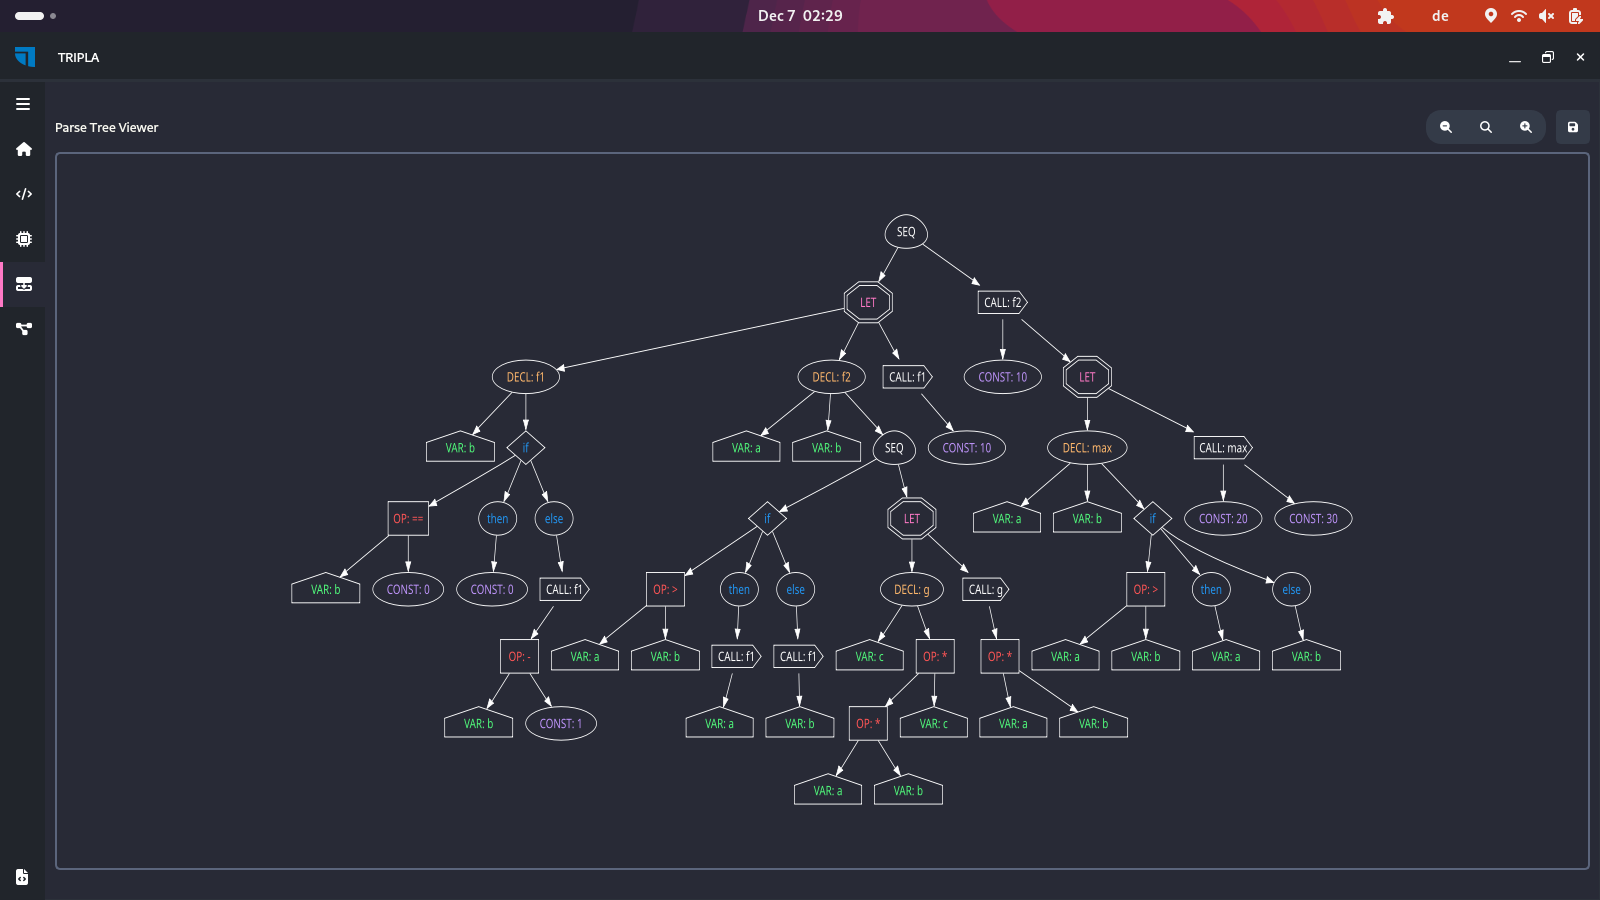
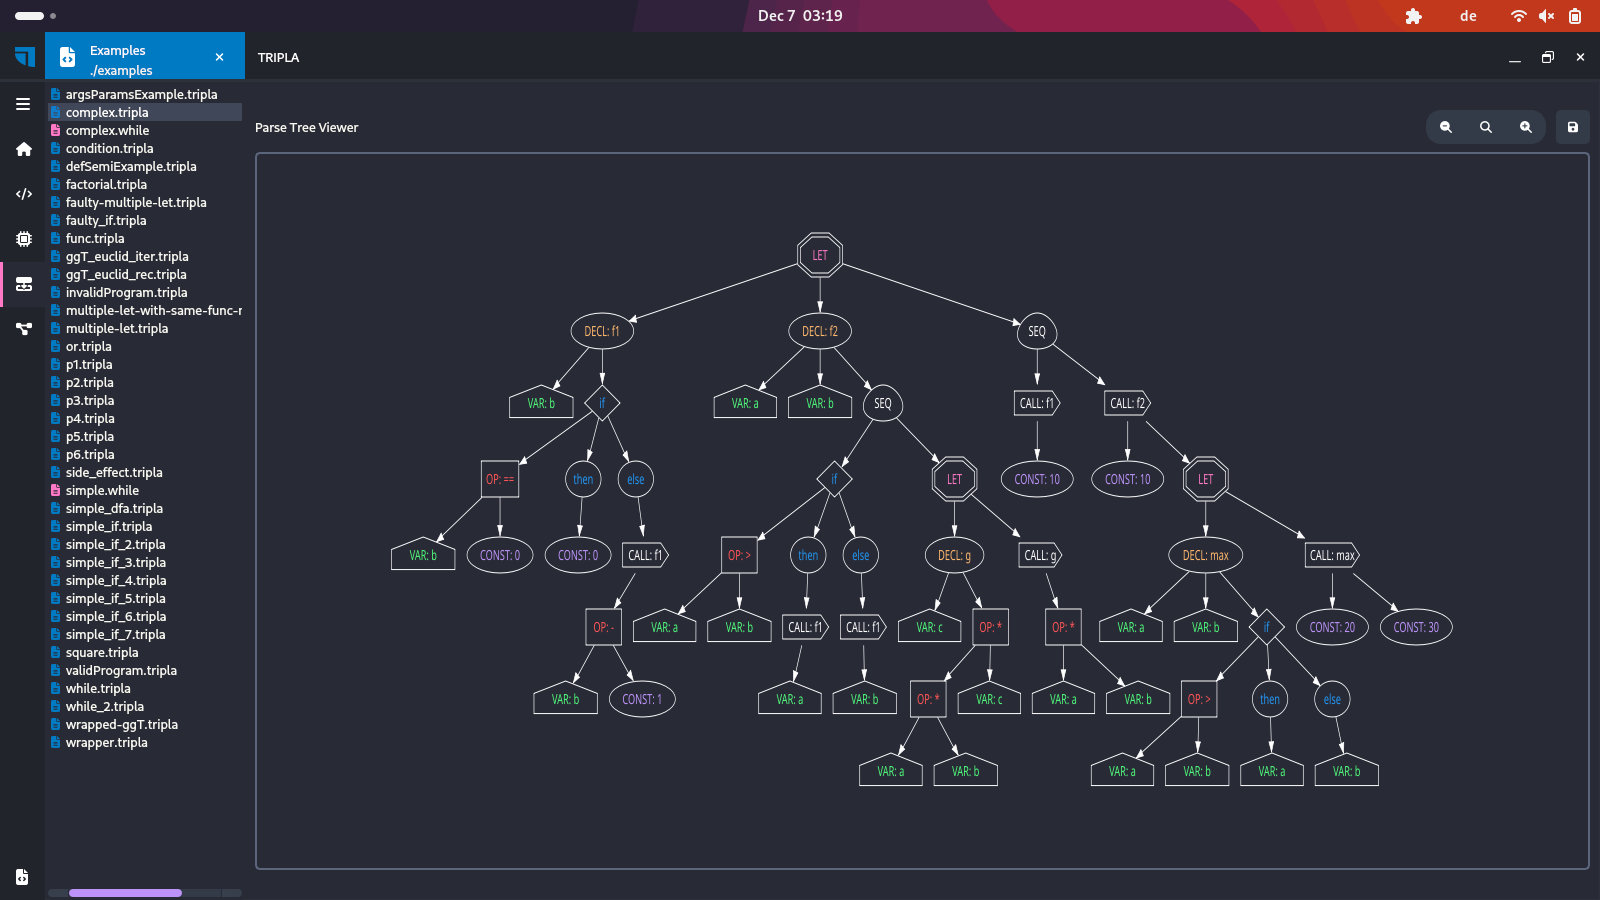
grammar

diff --git a/Modules/Tripla/parsetab.py b/Modules/Tripla/parsetab.py
@@ -6,9 +6,9 @@ _tabversion = '3.10'
 
 _lr_method = 'LALR'
 
-_lr_signature = 'nonassocRPARLETleftSEMICOLONCOMMAIDnonassocASSIGNELSEWHILEIFDOINleftORleftANDnonassocLTGTEQNEQLTEGTEleftADDSUBleftMULDIVADD AND ASSIGN COMMA COMMENT CONST DIV DO ELSE EQ FALSE GT GTE ID IF IN LBRA LET LPAR LT LTE MUL NEQ OR RBRA RPAR SEMICOLON SUB THEN TRUE WHILEE : LET D IN EE : IDE : ID LPAR A RPAR\n        E : E ADD E\n        | E SUB E\n        | E MUL E\n        | E DIV E\n        E : LPAR E RPARE : CONSTE : ID ASSIGN EE : E SEMICOLON EE : IF B THEN E ELSE EE : WHILE B DO LBRA E RBRAA : EA : A COMMA ED : ID LPAR V RPAR LBRA E RBRAD : D ID LPAR V RPAR LBRA E RBRAV : IDV : V COMMA VB : LPAR B RPARB : TRUEB : FALSE\n        B : B OR B\n        | B AND B\n        | B NEQ B\n        | B EQ B\n        \n        B : E EQ E\n        | E NEQ E\n        | E LT E\n        | E GT E\n        | E LTE E\n        | E GTE E\n        '
+_lr_signature = 'nonassocRPARINleftSEMICOLONCOMMAIDnonassocASSIGNELSEWHILEIFDOLETleftORleftANDnonassocLTGTEQNEQLTEGTEleftADDSUBleftMULDIVADD AND ASSIGN COMMA COMMENT CONST DIV DO ELSE EQ FALSE GT GTE ID IF IN LBRA LET LPAR LT LTE MUL NEQ OR RBRA RPAR SEMICOLON SUB THEN TRUE WHILEE : LET D IN EE : IDE : ID LPAR A RPAR\n        E : E ADD E\n        | E SUB E\n        | E MUL E\n        | E DIV E\n        E : LPAR E RPARE : CONSTE : ID ASSIGN EE : E SEMICOLON EE : IF B THEN E ELSE EE : WHILE B DO LBRA E RBRAA : EA : A COMMA ED : ID LPAR V RPAR LBRA E RBRAD : D ID LPAR V RPAR LBRA E RBRAV : IDV : V COMMA VB : LPAR B RPARB : TRUEB : FALSE\n        B : B OR B\n        | B AND B\n        | B NEQ B\n        | B EQ B\n        \n        B : E EQ E\n        | E NEQ E\n        | E LT E\n        | E GT E\n        | E LTE E\n        | E GTE E\n        '
     
-_lr_action_items = {'LET':([0,4,6,7,8,9,10,11,12,15,16,20,29,36,37,38,39,40,41,42,43,44,45,46,55,68,73,76,80,],[2,2,2,2,2,2,2,2,2,2,2,2,2,2,2,2,2,2,2,2,2,2,2,2,2,2,2,2,2,]),'ID':([0,2,4,6,7,8,9,10,11,12,13,15,16,20,29,31,36,37,38,39,40,41,42,43,44,45,46,51,55,68,71,73,76,80,83,84,],[3,14,3,3,3,3,3,3,3,3,30,3,3,3,3,52,3,3,3,3,3,3,3,3,3,3,3,52,3,3,52,3,3,3,-16,-17,]),'LPAR':([0,3,4,6,7,8,9,10,11,12,14,15,16,20,29,30,36,37,38,39,40,41,42,43,44,45,46,55,68,73,76,80,],[4,15,4,20,20,4,4,4,4,4,31,4,4,20,4,51,4,20,20,20,20,4,4,4,4,4,4,4,4,4,4,4,]),'CONST':([0,4,6,7,8,9,10,11,12,15,16,20,29,36,37,38,39,40,41,42,43,44,45,46,55,68,73,76,80,],[5,5,5,5,5,5,5,5,5,5,5,5,5,5,5,5,5,5,5,5,5,5,5,5,5,5,5,5,5,]),'IF':([0,4,6,7,8,9,10,11,12,15,16,20,29,36,37,38,39,40,41,42,43,44,45,46,55,68,73,76,80,],[6,6,6,6,6,6,6,6,6,6,6,6,6,6,6,6,6,6,6,6,6,6,6,6,6,6,6,6,6,]),'WHILE':([0,4,6,7,8,9,10,11,12,15,16,20,29,36,37,38,39,40,41,42,43,44,45,46,55,68,73,76,80,],[7,7,7,7,7,7,7,7,7,7,7,7,7,7,7,7,7,7,7,7,7,7,7,7,7,7,7,7,7,]),'$end':([1,3,5,24,25,26,27,28,34,35,50,54,78,79,],[0,-2,-9,-4,-5,-6,-7,-11,-10,-8,-1,-3,-12,-13,]),'ADD':([1,3,5,17,19,24,25,26,27,28,33,34,35,48,50,54,56,61,62,63,64,65,66,72,74,78,79,81,82,],[8,-2,-9,8,8,-4,-5,-6,-7,8,8,8,-8,8,8,-3,8,8,8,8,8,8,8,8,8,8,-13,8,8,]),'SUB':([1,3,5,17,19,24,25,26,27,28,33,34,35,48,50,54,56,61,62,63,64,65,66,72,74,78,79,81,82,],[9,-2,-9,9,9,-4,-5,-6,-7,9,9,9,-8,9,9,-3,9,9,9,9,9,9,9,9,9,9,-13,9,9,]),'MUL':([1,3,5,17,19,24,25,26,27,28,33,34,35,48,50,54,56,61,62,63,64,65,66,72,74,78,79,81,82,],[10,-2,-9,10,10,10,10,-6,-7,10,10,10,-8,10,10,-3,10,10,10,10,10,10,10,10,10,10,-13,10,10,]),'DIV':([1,3,5,17,19,24,25,26,27,28,33,34,35,48,50,54,56,61,62,63,64,65,66,72,74,78,79,81,82,],[11,-2,-9,11,11,11,11,-6,-7,11,11,11,-8,11,11,-3,11,11,11,11,11,11,11,11,11,11,-13,11,11,]),'SEMICOLON':([1,3,5,17,19,24,25,26,27,28,33,34,35,48,50,54,56,61,62,63,64,65,66,72,74,78,79,81,82,],[12,-2,-9,12,12,-4,-5,-6,-7,-11,12,-10,-8,12,-1,-3,12,12,12,12,12,12,12,12,12,-12,-13,12,12,]),'RPAR':([3,5,17,21,22,24,25,26,27,28,32,33,34,35,47,48,50,52,53,54,57,58,59,60,61,62,63,64,65,66,67,69,72,77,78,79,],[-2,-9,35,-21,-22,-4,-5,-6,-7,-11,54,-14,-10,-8,67,35,-1,-18,70,-3,-23,-24,-25,-26,-27,-28,-29,-30,-31,-32,-20,75,-15,-19,-12,-13,]),'EQ':([3,5,18,19,21,22,23,24,25,26,27,28,34,35,47,48,50,54,57,58,59,60,61,62,63,64,65,66,67,78,79,],[-2,-9,40,41,-21,-22,40,-4,-5,-6,-7,-11,-10,-8,40,41,-1,-3,40,40,None,None,-27,-28,-29,-30,-31,-32,-20,-12,-13,]),'NEQ':([3,5,18,19,21,22,23,24,25,26,27,28,34,35,47,48,50,54,57,58,59,60,61,62,63,64,65,66,67,78,79,],[-2,-9,39,42,-21,-22,39,-4,-5,-6,-7,-11,-10,-8,39,42,-1,-3,39,39,None,None,-27,-28,-29,-30,-31,-32,-20,-12,-13,]),'LT':([3,5,19,24,25,26,27,28,34,35,48,50,54,78,79,],[-2,-9,43,-4,-5,-6,-7,-11,-10,-8,43,-1,-3,-12,-13,]),'GT':([3,5,19,24,25,26,27,28,34,35,48,50,54,78,79,],[-2,-9,44,-4,-5,-6,-7,-11,-10,-8,44,-1,-3,-12,-13,]),'LTE':([3,5,19,24,25,26,27,28,34,35,48,50,54,78,79,],[-2,-9,45,-4,-5,-6,-7,-11,-10,-8,45,-1,-3,-12,-13,]),'GTE':([3,5,19,24,25,26,27,28,34,35,48,50,54,78,79,],[-2,-9,46,-4,-5,-6,-7,-11,-10,-8,46,-1,-3,-12,-13,]),'COMMA':([3,5,24,25,26,27,28,32,33,34,35,50,52,53,54,69,72,77,78,79,],[-2,-9,-4,-5,-6,-7,-11,55,-14,-10,-8,-1,-18,71,-3,71,-15,-19,-12,-13,]),'ELSE':([3,5,24,25,26,27,28,34,35,50,54,56,78,79,],[-2,-9,-4,-5,-6,-7,-11,-10,-8,-1,-3,73,-12,-13,]),'THEN':([3,5,18,21,22,24,25,26,27,28,34,35,50,54,57,58,59,60,61,62,63,64,65,66,67,78,79,],[-2,-9,36,-21,-22,-4,-5,-6,-7,-11,-10,-8,-1,-3,-23,-24,-25,-26,-27,-28,-29,-30,-31,-32,-20,-12,-13,]),'OR':([3,5,18,21,22,23,24,25,26,27,28,34,35,47,50,54,57,58,59,60,61,62,63,64,65,66,67,78,79,],[-2,-9,37,-21,-22,37,-4,-5,-6,-7,-11,-10,-8,37,-1,-3,-23,-24,-25,-26,-27,-28,-29,-30,-31,-32,-20,-12,-13,]),'AND':([3,5,18,21,22,23,24,25,26,27,28,34,35,47,50,54,57,58,59,60,61,62,63,64,65,66,67,78,79,],[-2,-9,38,-21,-22,38,-4,-5,-6,-7,-11,-10,-8,38,-1,-3,38,-24,-25,-26,-27,-28,-29,-30,-31,-32,-20,-12,-13,]),'DO':([3,5,21,22,23,24,25,26,27,28,34,35,50,54,57,58,59,60,61,62,63,64,65,66,67,78,79,],[-2,-9,-21,-22,49,-4,-5,-6,-7,-11,-10,-8,-1,-3,-23,-24,-25,-26,-27,-28,-29,-30,-31,-32,-20,-12,-13,]),'RBRA':([3,5,24,25,26,27,28,34,35,50,54,74,78,79,81,82,],[-2,-9,-4,-5,-6,-7,-11,-10,-8,-1,-3,79,-12,-13,83,84,]),'ASSIGN':([3,],[16,]),'TRUE':([6,7,20,37,38,39,40,],[21,21,21,21,21,21,21,]),'FALSE':([6,7,20,37,38,39,40,],[22,22,22,22,22,22,22,]),'IN':([13,83,84,],[29,-16,-17,]),'LBRA':([49,70,75,],[68,76,80,]),}
+_lr_action_items = {'LET':([0,4,6,7,8,9,10,11,12,15,16,20,29,36,37,38,39,40,41,42,43,44,45,46,55,68,73,76,80,],[2,2,2,2,2,2,2,2,2,2,2,2,2,2,2,2,2,2,2,2,2,2,2,2,2,2,2,2,2,]),'ID':([0,2,4,6,7,8,9,10,11,12,13,15,16,20,29,31,36,37,38,39,40,41,42,43,44,45,46,51,55,68,71,73,76,80,83,84,],[3,14,3,3,3,3,3,3,3,3,30,3,3,3,3,52,3,3,3,3,3,3,3,3,3,3,3,52,3,3,52,3,3,3,-16,-17,]),'LPAR':([0,3,4,6,7,8,9,10,11,12,14,15,16,20,29,30,36,37,38,39,40,41,42,43,44,45,46,55,68,73,76,80,],[4,15,4,20,20,4,4,4,4,4,31,4,4,20,4,51,4,20,20,20,20,4,4,4,4,4,4,4,4,4,4,4,]),'CONST':([0,4,6,7,8,9,10,11,12,15,16,20,29,36,37,38,39,40,41,42,43,44,45,46,55,68,73,76,80,],[5,5,5,5,5,5,5,5,5,5,5,5,5,5,5,5,5,5,5,5,5,5,5,5,5,5,5,5,5,]),'IF':([0,4,6,7,8,9,10,11,12,15,16,20,29,36,37,38,39,40,41,42,43,44,45,46,55,68,73,76,80,],[6,6,6,6,6,6,6,6,6,6,6,6,6,6,6,6,6,6,6,6,6,6,6,6,6,6,6,6,6,]),'WHILE':([0,4,6,7,8,9,10,11,12,15,16,20,29,36,37,38,39,40,41,42,43,44,45,46,55,68,73,76,80,],[7,7,7,7,7,7,7,7,7,7,7,7,7,7,7,7,7,7,7,7,7,7,7,7,7,7,7,7,7,]),'$end':([1,3,5,24,25,26,27,28,34,35,50,54,78,79,],[0,-2,-9,-4,-5,-6,-7,-11,-10,-8,-1,-3,-12,-13,]),'ADD':([1,3,5,17,19,24,25,26,27,28,33,34,35,48,50,54,56,61,62,63,64,65,66,72,74,78,79,81,82,],[8,-2,-9,8,8,-4,-5,-6,-7,8,8,8,-8,8,8,-3,8,8,8,8,8,8,8,8,8,8,-13,8,8,]),'SUB':([1,3,5,17,19,24,25,26,27,28,33,34,35,48,50,54,56,61,62,63,64,65,66,72,74,78,79,81,82,],[9,-2,-9,9,9,-4,-5,-6,-7,9,9,9,-8,9,9,-3,9,9,9,9,9,9,9,9,9,9,-13,9,9,]),'MUL':([1,3,5,17,19,24,25,26,27,28,33,34,35,48,50,54,56,61,62,63,64,65,66,72,74,78,79,81,82,],[10,-2,-9,10,10,10,10,-6,-7,10,10,10,-8,10,10,-3,10,10,10,10,10,10,10,10,10,10,-13,10,10,]),'DIV':([1,3,5,17,19,24,25,26,27,28,33,34,35,48,50,54,56,61,62,63,64,65,66,72,74,78,79,81,82,],[11,-2,-9,11,11,11,11,-6,-7,11,11,11,-8,11,11,-3,11,11,11,11,11,11,11,11,11,11,-13,11,11,]),'SEMICOLON':([1,3,5,17,19,24,25,26,27,28,33,34,35,48,50,54,56,61,62,63,64,65,66,72,74,78,79,81,82,],[12,-2,-9,12,12,-4,-5,-6,-7,-11,12,-10,-8,12,12,-3,12,12,12,12,12,12,12,12,12,-12,-13,12,12,]),'RPAR':([3,5,17,21,22,24,25,26,27,28,32,33,34,35,47,48,50,52,53,54,57,58,59,60,61,62,63,64,65,66,67,69,72,77,78,79,],[-2,-9,35,-21,-22,-4,-5,-6,-7,-11,54,-14,-10,-8,67,35,-1,-18,70,-3,-23,-24,-25,-26,-27,-28,-29,-30,-31,-32,-20,75,-15,-19,-12,-13,]),'EQ':([3,5,18,19,21,22,23,24,25,26,27,28,34,35,47,48,50,54,57,58,59,60,61,62,63,64,65,66,67,78,79,],[-2,-9,40,41,-21,-22,40,-4,-5,-6,-7,-11,-10,-8,40,41,-1,-3,40,40,None,None,-27,-28,-29,-30,-31,-32,-20,-12,-13,]),'NEQ':([3,5,18,19,21,22,23,24,25,26,27,28,34,35,47,48,50,54,57,58,59,60,61,62,63,64,65,66,67,78,79,],[-2,-9,39,42,-21,-22,39,-4,-5,-6,-7,-11,-10,-8,39,42,-1,-3,39,39,None,None,-27,-28,-29,-30,-31,-32,-20,-12,-13,]),'LT':([3,5,19,24,25,26,27,28,34,35,48,50,54,78,79,],[-2,-9,43,-4,-5,-6,-7,-11,-10,-8,43,-1,-3,-12,-13,]),'GT':([3,5,19,24,25,26,27,28,34,35,48,50,54,78,79,],[-2,-9,44,-4,-5,-6,-7,-11,-10,-8,44,-1,-3,-12,-13,]),'LTE':([3,5,19,24,25,26,27,28,34,35,48,50,54,78,79,],[-2,-9,45,-4,-5,-6,-7,-11,-10,-8,45,-1,-3,-12,-13,]),'GTE':([3,5,19,24,25,26,27,28,34,35,48,50,54,78,79,],[-2,-9,46,-4,-5,-6,-7,-11,-10,-8,46,-1,-3,-12,-13,]),'COMMA':([3,5,24,25,26,27,28,32,33,34,35,50,52,53,54,69,72,77,78,79,],[-2,-9,-4,-5,-6,-7,-11,55,-14,-10,-8,-1,-18,71,-3,71,-15,-19,-12,-13,]),'ELSE':([3,5,24,25,26,27,28,34,35,50,54,56,78,79,],[-2,-9,-4,-5,-6,-7,-11,-10,-8,-1,-3,73,-12,-13,]),'THEN':([3,5,18,21,22,24,25,26,27,28,34,35,50,54,57,58,59,60,61,62,63,64,65,66,67,78,79,],[-2,-9,36,-21,-22,-4,-5,-6,-7,-11,-10,-8,-1,-3,-23,-24,-25,-26,-27,-28,-29,-30,-31,-32,-20,-12,-13,]),'OR':([3,5,18,21,22,23,24,25,26,27,28,34,35,47,50,54,57,58,59,60,61,62,63,64,65,66,67,78,79,],[-2,-9,37,-21,-22,37,-4,-5,-6,-7,-11,-10,-8,37,-1,-3,-23,-24,-25,-26,-27,-28,-29,-30,-31,-32,-20,-12,-13,]),'AND':([3,5,18,21,22,23,24,25,26,27,28,34,35,47,50,54,57,58,59,60,61,62,63,64,65,66,67,78,79,],[-2,-9,38,-21,-22,38,-4,-5,-6,-7,-11,-10,-8,38,-1,-3,38,-24,-25,-26,-27,-28,-29,-30,-31,-32,-20,-12,-13,]),'DO':([3,5,21,22,23,24,25,26,27,28,34,35,50,54,57,58,59,60,61,62,63,64,65,66,67,78,79,],[-2,-9,-21,-22,49,-4,-5,-6,-7,-11,-10,-8,-1,-3,-23,-24,-25,-26,-27,-28,-29,-30,-31,-32,-20,-12,-13,]),'RBRA':([3,5,24,25,26,27,28,34,35,50,54,74,78,79,81,82,],[-2,-9,-4,-5,-6,-7,-11,-10,-8,-1,-3,79,-12,-13,83,84,]),'ASSIGN':([3,],[16,]),'TRUE':([6,7,20,37,38,39,40,],[21,21,21,21,21,21,21,]),'FALSE':([6,7,20,37,38,39,40,],[22,22,22,22,22,22,22,]),'IN':([13,83,84,],[29,-16,-17,]),'LBRA':([49,70,75,],[68,76,80,]),}
 
 _lr_action = {}
 for _k, _v in _lr_action_items.items():

diff --git a/Modules/Tripla/triplayacc.py b/Modules/Tripla/triplayacc.py
@@ -39,9 +39,9 @@ class TriplaYacc:
         self.lexer_instance = TriplaLexer()
         self.tokens = self.lexer_instance.tokens
         self.precedence = (
-            ('nonassoc', 'RPAR', 'LET'),
+            ('nonassoc', 'RPAR', 'IN'),
             ('left', 'SEMICOLON', 'COMMA', 'ID'),
-            ('nonassoc', 'ASSIGN', 'ELSE', 'WHILE', 'IF', 'DO', 'IN'),
+            ('nonassoc', 'ASSIGN', 'ELSE', 'WHILE', 'IF', 'DO', 'LET'),
             ('left', 'OR'),
             ('left', 'AND'),
             ('nonassoc', 'LT', 'GT', 'EQ', 'NEQ', 'LTE', 'GTE'),
